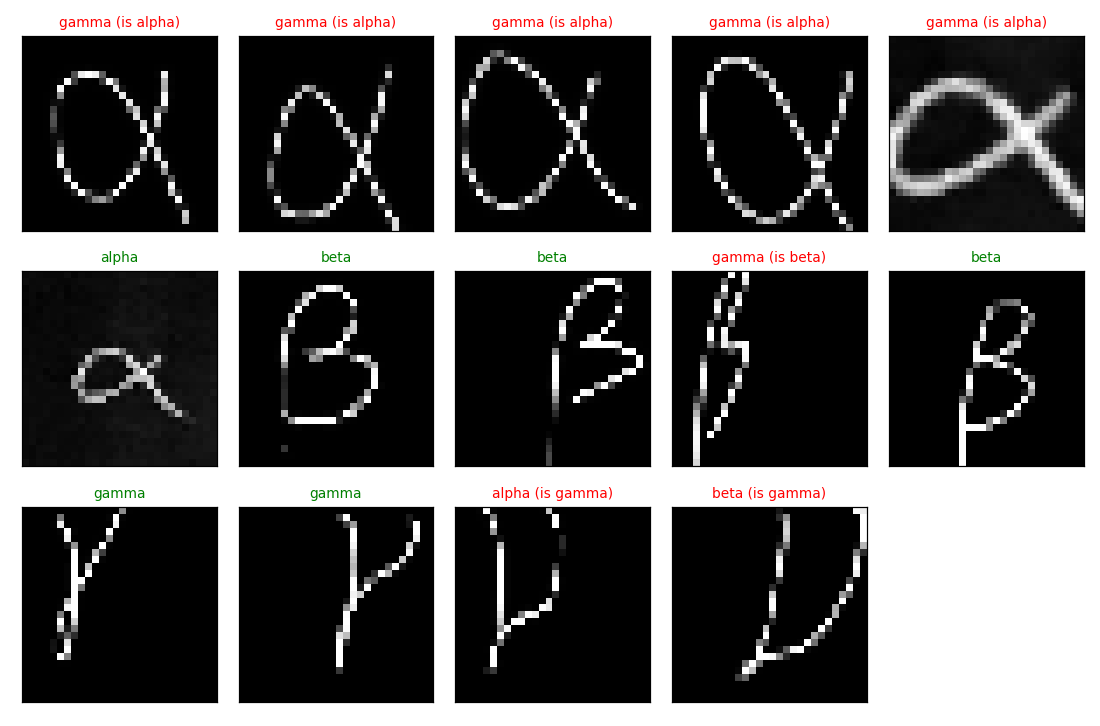
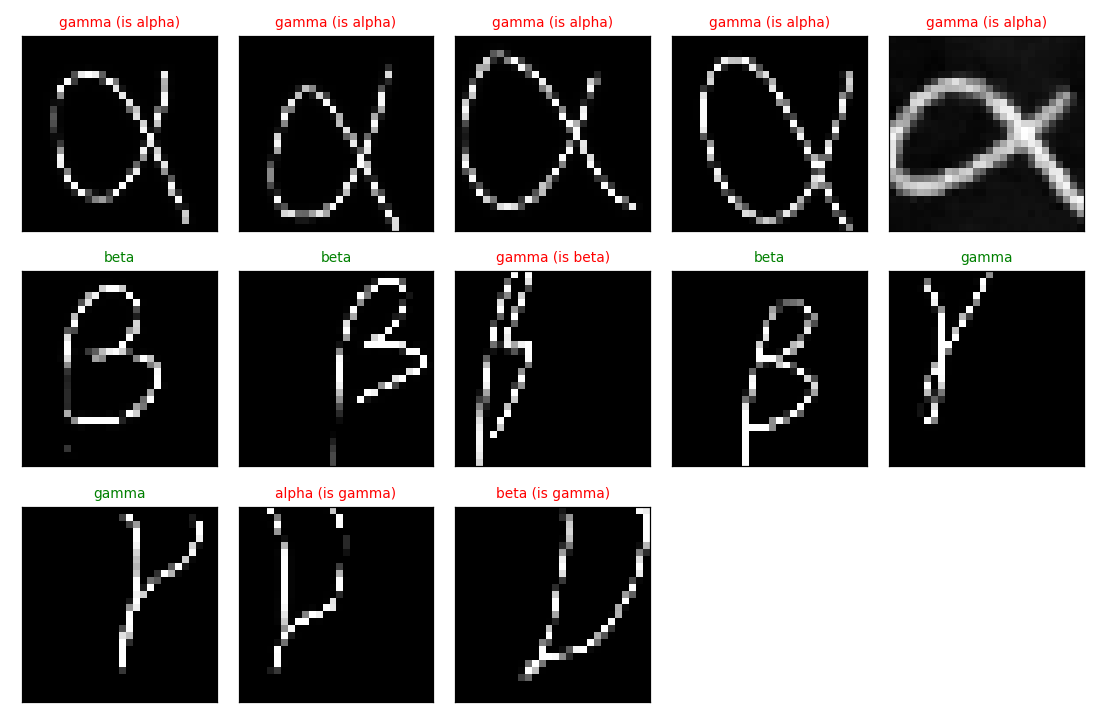
fix(project5): exclude training duplicates from Greek evaluation

diff --git a/project5/greek_transfer.py b/project5/greek_transfer.py
@@ -1,7 +1,8 @@
 """Transfer learning: re-use the MNIST network to recognise the Greek letters alpha, beta and gamma.
 
 The convolutional layers and fc1 of the trained MNIST network are frozen; only a new 50 -> 3 output layer is
-trained on the 27 hand-written training letters (project5/greek_train) and evaluated on the 14 test letters.
+trained on the 27 hand-written training letters (project5/greek_train). Test files identical to training images
+are excluded from evaluation and reported explicitly.
 
     python greek_transfer.py                       # prints per-epoch accuracy and the test result
     python greek_transfer.py --out results/greek   # also writes predictions.png and metrics.json
@@ -9,6 +10,7 @@ trained on the 27 hand-written training letters (project5/greek_train) and evalu
 from __future__ import annotations
 
 import argparse
+import hashlib
 import json
 from pathlib import Path
 
@@ -85,6 +87,23 @@ def run(args: argparse.Namespace) -> dict:
     test_set, test_loader = greek_loader(Path(args.test), batch_size=1, shuffle=False)
     assert train_set.classes == test_set.classes, "train and test folders must have the same classes"
 
+    training_hashes = {hashlib.sha256(Path(path).read_bytes()).digest() for path, _ in train_set.samples}
+    held_out_indices, excluded_test_samples = [], []
+    for index, (path, _) in enumerate(test_set.samples):
+        if hashlib.sha256(Path(path).read_bytes()).digest() in training_hashes:
+            excluded_test_samples.append(Path(path).relative_to(test_set.root).as_posix())
+        else:
+            held_out_indices.append(index)
+    excluded_test_samples.sort()
+    print(f"excluded {len(excluded_test_samples)} test images identical to training images")
+    for path in excluded_test_samples:
+        print(f"  {path}")
+    if not held_out_indices:
+        raise ValueError("no held-out test images remain after excluding training duplicates")
+    test_loader = torch.utils.data.DataLoader(
+        torch.utils.data.Subset(test_set, held_out_indices), batch_size=1, shuffle=False,
+    )
+
     model = GreekNet(load_weights(args.weights))
     criterion = nn.NLLLoss()
     optimizer = torch.optim.SGD(model.parameters(), lr=0.003, momentum=0.9)
@@ -110,7 +129,8 @@ def run(args: argparse.Namespace) -> dict:
     print(f"test accuracy {100 * test_acc:.1f} % on {len(samples)} letters")
     for img, truth, pred in samples:
         print(f"  actual {classes[truth]:5s} predicted {classes[pred]}{'' if truth == pred else '   <-- wrong'}")
-    result = {"classes": classes, "test_accuracy": test_acc, "test_samples": len(samples), "training": history}
+    result = {"classes": classes, "test_accuracy": test_acc, "test_samples": len(samples),
+              "excluded_test_samples": excluded_test_samples, "training": history}
 
     if args.out:
         import matplotlib

diff --git a/project5/tests/test_python.py b/project5/tests/test_python.py
@@ -121,8 +121,54 @@ def test_greek_transfer_learning_runs_and_fits_the_training_set(tmp_path):
         out=str(tmp_path),
     )
     result = greek_transfer.run(args)
-    assert result["test_samples"] == 14
+    assert result["test_samples"] == 13
+    assert result["excluded_test_samples"] == ["alpha/alpha_005.png"]
     assert 0.0 <= result["test_accuracy"] <= 1.0
     assert result["training"][-1]["train_accuracy"] > 0.6  # far above the 1/3 chance level
     assert (tmp_path / "predictions.png").exists()
     assert (tmp_path / "metrics.json").exists()
+
+
+@pytest.mark.parametrize("include_duplicate", [False, True])
+def test_greek_evaluation_excludes_training_content_regardless_of_filename_or_class(tmp_path, include_duplicate):
+    import argparse
+    import shutil
+
+    train = tmp_path / "train"
+    test = tmp_path / "test"
+    for label in ("alpha", "beta", "gamma"):
+        (train / label).mkdir(parents=True)
+        (test / label).mkdir(parents=True)
+        # Matching filenames alone do not imply overlap: these are distinct images.
+        shutil.copyfile(HERE / "greek_train" / label / f"{label}_001.png", train / label / "sample.png")
+        shutil.copyfile(HERE / "greek_test" / label / f"{label}_000.png", test / label / "sample.png")
+    if include_duplicate:
+        # A renamed, relabelled copy is still a training image and must be excluded.
+        shutil.copyfile(train / "beta/sample.png", test / "alpha/copied-training.png")
+
+    result = greek_transfer.run(argparse.Namespace(
+        weights=str(HERE / "mnist_model_weights.pth"),
+        train=str(train),
+        test=str(test),
+        epochs=0,
+        seed=0,
+        out="",
+    ))
+
+    assert result["test_samples"] == 3
+    assert result["excluded_test_samples"] == (["alpha/copied-training.png"] if include_duplicate else [])
+
+
+def test_greek_evaluation_rejects_a_test_set_containing_only_training_images():
+    import argparse
+
+    args = argparse.Namespace(
+        weights=str(HERE / "mnist_model_weights.pth"),
+        train=str(HERE / "greek_train"),
+        test=str(HERE / "greek_train"),
+        epochs=0,
+        seed=0,
+        out="",
+    )
+    with pytest.raises(ValueError, match="no held-out test images"):
+        greek_transfer.run(args)
